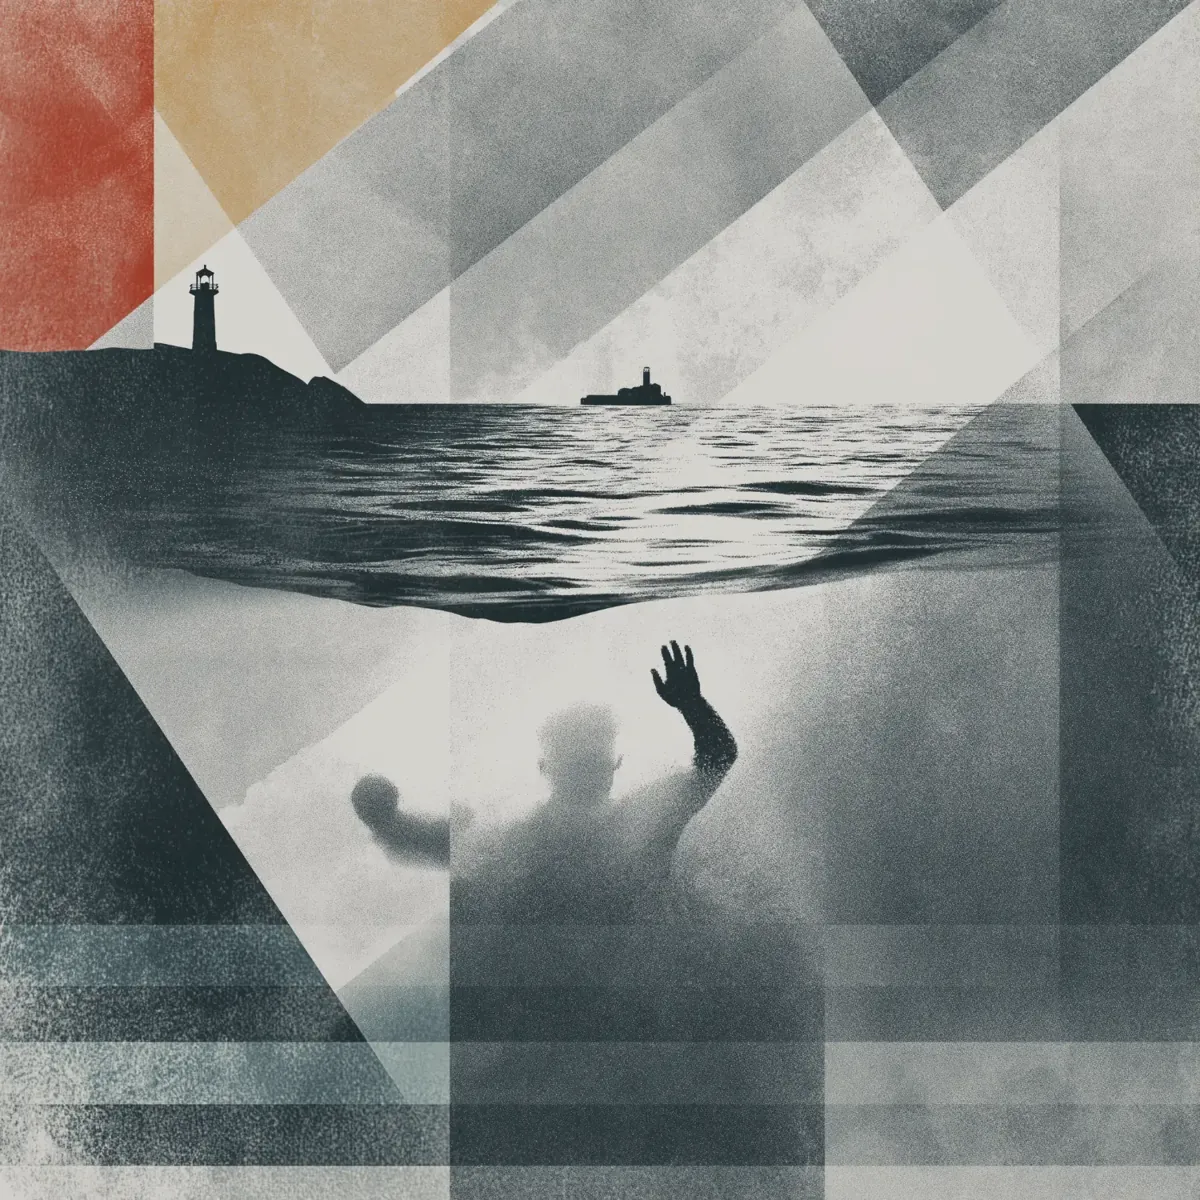
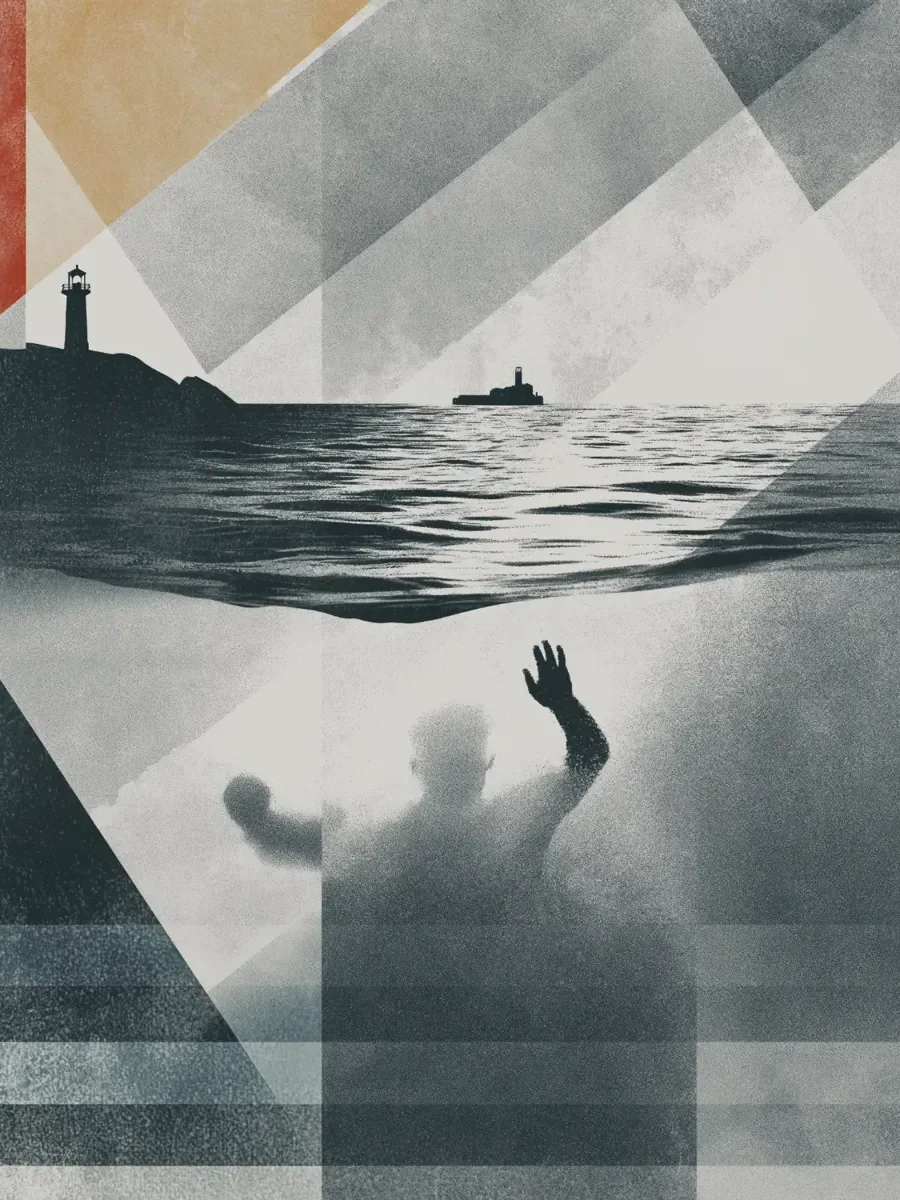
Show every rule's art at 3:4 portrait; draft passage sharing copy
Crop rules 1, 4, 9 and 14 to 3:4 and widen rule 5 with its own paper
background; render all chapter art at exactly 3:4 with a test. Add the
share-card copy for passages (share sheet covers Instagram, Messages).

Claude-Session: https://claude.ai/code/session_01AJAbXSt1J9kHZSAnbJXuQR

diff --git a/src/content/art.ts b/src/content/art.ts
@@ -3,29 +3,33 @@ import type { ImageSourcePropType } from 'react-native';
 import type { PartId, RuleId } from './types';
 
 // Book illustrations from Box `Brave & Boundless/Book/art` (finals, confirmed by Mark).
-// Each file keeps its natural aspect ratio; `ratio` is width / height.
+// `ratio` is width / height. Every chapter illustration is shown 3:4 portrait
+// (Mark, 2026-11-07); the files are 3:4 (or within 4px of it), and the app
+// crops to exactly 3:4 with `cover`.
 //
 // Rule 8 (No Costume, Just You) uses `no costume-2` (masked runner), not the
 // book's topless version, which App Store / Play rules treat as nudity.
 
 export type Art = { source: ImageSourcePropType; ratio: number };
 
+const PORTRAIT = 3 / 4;
+
 export const chapterArt: Partial<Record<RuleId, Art>> = {
-  1: { source: require('../../assets/images/chapters/01.webp'), ratio: 819 / 1024 },
-  2: { source: require('../../assets/images/chapters/02.webp'), ratio: 772 / 1024 },
-  3: { source: require('../../assets/images/chapters/03.webp'), ratio: 772 / 1024 },
-  4: { source: require('../../assets/images/chapters/04.webp'), ratio: 1 },
-  5: { source: require('../../assets/images/chapters/05.webp'), ratio: 679 / 1024 },
-  6: { source: require('../../assets/images/chapters/06.webp'), ratio: 772 / 1024 },
-  7: { source: require('../../assets/images/chapters/07.webp'), ratio: 904 / 1200 },
-  8: { source: require('../../assets/images/chapters/08.webp'), ratio: 904 / 1200 },
-  9: { source: require('../../assets/images/chapters/09.webp'), ratio: 1117 / 1200 },
-  10: { source: require('../../assets/images/chapters/10.webp'), ratio: 772 / 1024 },
-  11: { source: require('../../assets/images/chapters/11.webp'), ratio: 904 / 1200 },
-  12: { source: require('../../assets/images/chapters/12.webp'), ratio: 904 / 1200 },
-  13: { source: require('../../assets/images/chapters/13.webp'), ratio: 772 / 1024 },
-  14: { source: require('../../assets/images/chapters/14.webp'), ratio: 839 / 1024 },
-  15: { source: require('../../assets/images/chapters/15.webp'), ratio: 772 / 1024 },
+  1: { source: require('../../assets/images/chapters/01.webp'), ratio: PORTRAIT },
+  2: { source: require('../../assets/images/chapters/02.webp'), ratio: PORTRAIT },
+  3: { source: require('../../assets/images/chapters/03.webp'), ratio: PORTRAIT },
+  4: { source: require('../../assets/images/chapters/04.webp'), ratio: PORTRAIT },
+  5: { source: require('../../assets/images/chapters/05.webp'), ratio: PORTRAIT },
+  6: { source: require('../../assets/images/chapters/06.webp'), ratio: PORTRAIT },
+  7: { source: require('../../assets/images/chapters/07.webp'), ratio: PORTRAIT },
+  8: { source: require('../../assets/images/chapters/08.webp'), ratio: PORTRAIT },
+  9: { source: require('../../assets/images/chapters/09.webp'), ratio: PORTRAIT },
+  10: { source: require('../../assets/images/chapters/10.webp'), ratio: PORTRAIT },
+  11: { source: require('../../assets/images/chapters/11.webp'), ratio: PORTRAIT },
+  12: { source: require('../../assets/images/chapters/12.webp'), ratio: PORTRAIT },
+  13: { source: require('../../assets/images/chapters/13.webp'), ratio: PORTRAIT },
+  14: { source: require('../../assets/images/chapters/14.webp'), ratio: PORTRAIT },
+  15: { source: require('../../assets/images/chapters/15.webp'), ratio: PORTRAIT },
 };
 
 /** The four pillar illustrations. Transparent, made to sit on the dark ground. */

diff --git a/copy/inspiration.ts b/copy/inspiration.ts
@@ -13,7 +13,21 @@ export const inspirationCopy = {
   source: (rule: number, chapter: string) => `Rule ${rule} · ${chapter}`,
   save: 'Save',
   saved: 'Saved',
-  share: 'Share',
+
+  // ── Share a passage (Mark, 2026-11-07) ─────────────────────────────────
+  // Builds a 1080 × 1920 image card (passage on black, ember rule line,
+  // attribution, site) and opens the phone's share sheet, which covers
+  // Instagram (Stories, feed, DM), Messages, WhatsApp, email and the rest.
+  share: {
+    button: 'Share',
+    a11y: 'Share this passage as an image.',
+    // On the card, under the passage
+    attribution: 'Mark A. Nead · Brave & Boundless',
+    site: 'braveandboundless.com',
+    // Text sent alongside the image where the app allows it (Messages, email)
+    message: (passage: string) => `“${passage}” — Mark A. Nead, Brave & Boundless. braveandboundless.com`,
+    failed: 'Couldn’t share. Try again.',
+  },
   library: {
     title: 'Passages',
     intro: 'Lines from the book, sorted by what you’re facing.',

diff --git a/src/content/__tests__/art.test.ts b/src/content/__tests__/art.test.ts
@@ -9,6 +9,10 @@ describe('book art', () => {
     expect(missing).toEqual([]);
   });
 
+  it('shows every rule’s illustration at the same 3:4 portrait shape', () => {
+    for (const art of Object.values(chapterArt)) expect(art!.ratio).toBe(3 / 4);
+  });
+
   it('has a pillar illustration for every part', () => {
     for (const p of parts) expect(partArt[p.id]).toBeDefined();
   });

diff --git a/CLAUDE.md b/CLAUDE.md
@@ -176,3 +176,6 @@ Seed `rules` from `content/bb-rule-cards.json` via a migration script; the JSON 
 - 2026-11-07 — **What it builds**: new writing, one line per drill, in `content/drill-outcomes.json` (**draft, drafted by Claude from the rule cards for Mark to edit**). Kept apart from the book's text and never presented as a quote; tested for 45 entries and no exclamation points.
 - 2026-11-07 — Step 7/8 copy drafted for approval: `copy/navigation.ts` (now draft: new tabs alongside the approved current ones), `copy/structure.ts`, `copy/deeper.ts`, `copy/practice.ts`, `copy/inspiration.ts`. No screens built on them until approved.
 - 2026-11-07 — Existing services to reuse: **Ask Mark** = Express server on Railway (`askmark-production.up.railway.app`, repo `Brave-Boundless/askMark`), `POST /api/chat` with the full message history, no caller key, 10 requests/min per IP; native apps send no `Origin`, which its CORS allows. **Share Your Story** = Kit form `9584762` (name, email, "which describes you", story), with the website's privacy promise and 988 crisis line.
+- 2026-11-07 — **Rule art is all 3:4 portrait** (Mark). Rules 1, 4, 9 and 14 cropped at the sides (Rule 4 keeps the lighthouse and the swimmer); Rule 5 was narrower and is widened with its own paper background instead of losing head or feet. The other ten files are 772 × 1024 (within 4px); the app shows every chapter illustration at exactly 3:4 with `cover`, and a test holds it there.
+- 2026-11-07 — **Share a passage** (Mark): an image card (1080 × 1920, passage + "Mark A. Nead · Brave & Boundless" + site) through the phone's share sheet, which already includes Instagram Stories, feed and DMs, Messages and WhatsApp. A dedicated "Share to Instagram Stories" button needs a Meta app ID registered for Instagram's sharing API; add later if wanted. Copy in `copy/inspiration.ts` (draft).
+
